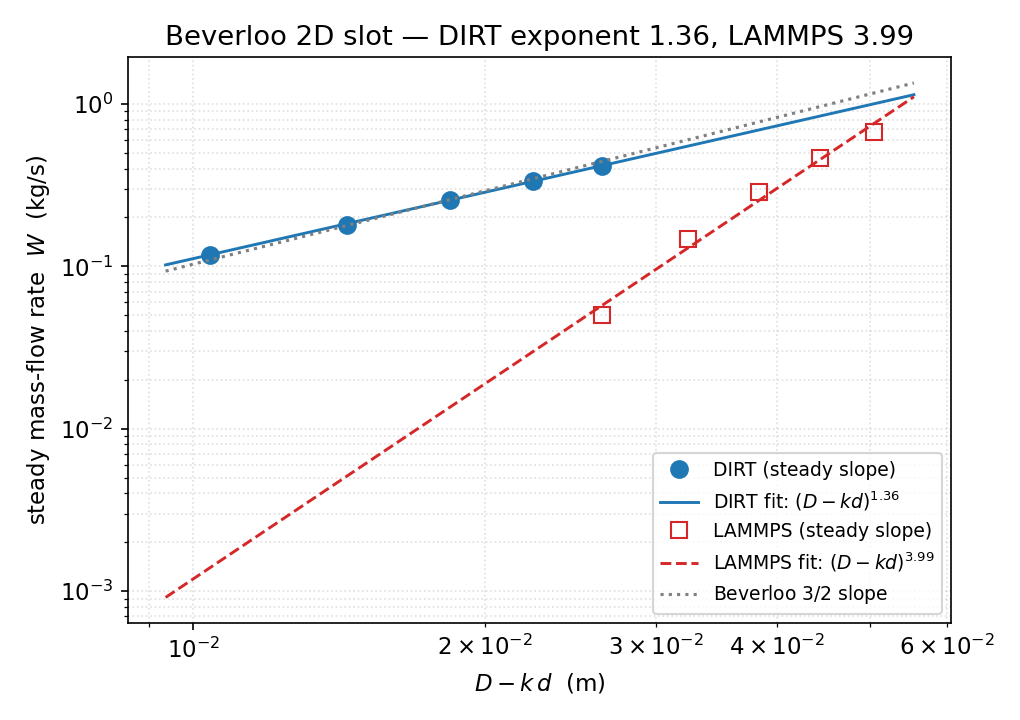
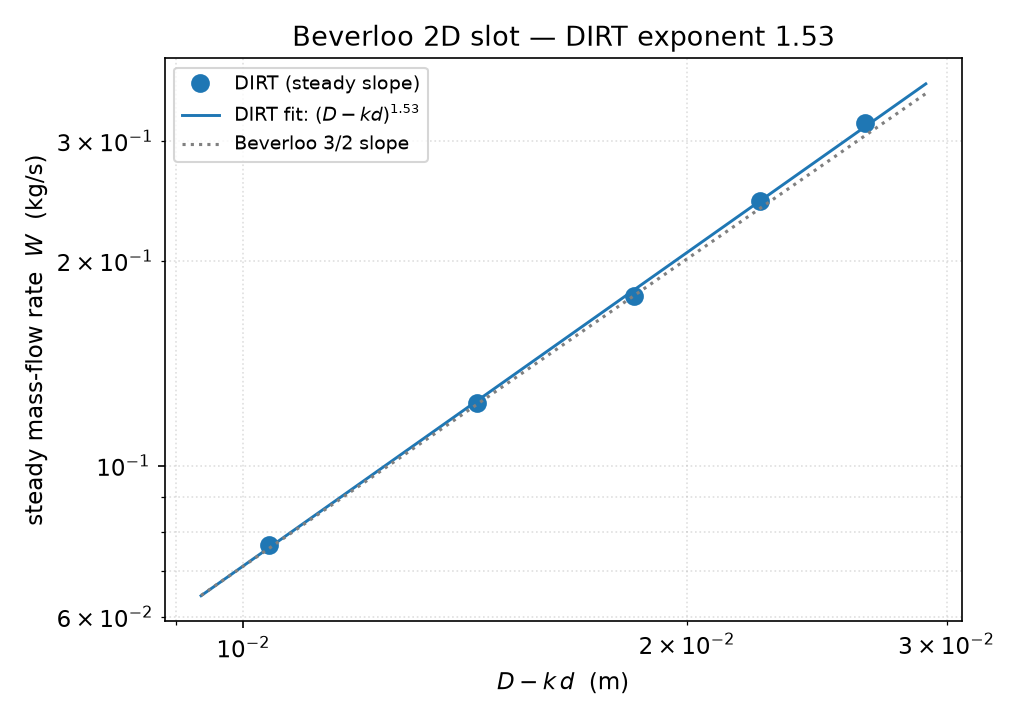
Strengthen hopper Beverloo validation
Add a cited Choi/Kudrolli/Bazant quasi-2D slot reference to bench_hopper_beverloo and plot normalized DIRT orifice-width scaling against the published 1.48 exponent. Regenerate the committed hopper plots from the current full DIRT sweep and document the 2D slot geometry limits relative to 3D circular-orifice data.

diff --git a/examples/bench_hopper_beverloo/sweep.py b/examples/bench_hopper_beverloo/sweep.py
@@ -44,6 +44,8 @@ Outputs:
     sweep/lammps_D<...>/in.lammps  LAMMPS inputs                      (gitignored)
     data/sweep.csv                 per-D fitted W (DIRT)              (gitignored)
     data/lammps_results.csv        per-D fitted W (LAMMPS)           (gitignored)
+    data/choi2005_quasi2d_orifice.csv
+                                    published quasi-2D slot reference  (tracked)
     data/curve_D<...>.csv          per-D cumulative-discharge curves  (gitignored)
     plots/*.png                    final figures                      (tracked)
 
@@ -51,6 +53,9 @@ Reference:
     W. A. Beverloo, H. A. Leniger, J. van de Velde, "The flow of granular solids
     through orifices", Chem. Eng. Sci. 15 (1961) 260-269.
     For a long slot of width D the per-unit-length flow scales as (D - k d)^(3/2).
+    J. Choi, A. Kudrolli, M. Z. Bazant, "Velocity profile of granular flows inside
+    silos and hoppers", J. Phys.: Condens. Matter 17 (2005) S2533-S2548.
+    Their quasi-2D silo experiments report v* = 0.63 (W/d - 1)^1.48.
 """
 
 import os
@@ -69,6 +74,7 @@ DATA_DIR = os.path.join(SCRIPT_DIR, "data")
 PLOT_DIR = os.path.join(SCRIPT_DIR, "plots")
 SWEEP_CSV = os.path.join(DATA_DIR, "sweep.csv")              # fitted W vs D (DIRT)
 LAMMPS_CSV = os.path.join(DATA_DIR, "lammps_results.csv")    # fitted W vs D (LAMMPS, optional)
+CHOI_REF_CSV = os.path.join(DATA_DIR, "choi2005_quasi2d_orifice.csv")
 
 # LAMMPS binary candidates, in preference order. LAMMPS is optional: if none is
 # found, the LAMMPS leg is skipped and only DIRT is run/plotted/validated.
@@ -98,6 +104,7 @@ G = abs(GZ)
 # Beverloo constants (theory targets; C is order-1, validate the exponent & k).
 K_BEVERLOO = 1.4
 EXPONENT_2D = 1.5    # slot (per unit width)
+CHOI_EXPONENT = 1.48
 
 # ── Sweep over slot opening D [m] (all > a few grain diameters) ──────────────
 # k·d = 1.4·0.004 = 0.0056 m, so the smallest D≈0.016 gives (D-kd)≈0.0104 (>2.5 d).
@@ -596,6 +603,27 @@ def _load_lammps():
         return [{k: float(v) for k, v in r.items()} for r in csv.DictReader(f)]
 
 
+def _load_choi_reference():
+    """Load Choi et al.'s published quasi-2D orifice-width fit samples.
+
+    The CSV stores dimensionless samples from the paper's reported fit,
+        v* = 0.63 (W/d - 1)^1.48,
+    after dropping the arbitrary 0.63 prefactor. We compare the dimensionless slope
+    only; the DIRT prefactor is not comparable because the slot depth, particle size,
+    bin, funnel, and W measurement differ.
+    """
+    if not os.path.isfile(CHOI_REF_CSV):
+        return []
+    rows = []
+    with open(CHOI_REF_CSV) as f:
+        for r in csv.DictReader(f):
+            rows.append({
+                "x_eff_over_d": float(r["effective_width_over_d"]),
+                "q_norm": float(r["normalized_flow"]),
+            })
+    return rows
+
+
 def _load_curve(D, prefix="curve_"):
     path = os.path.join(DATA_DIR, f"{prefix}{case_tag(D)}.csv")
     if not os.path.isfile(path):
@@ -742,7 +770,46 @@ def plot(rows, lammps_rows=None):
     fig.savefig(os.path.join(PLOT_DIR, "discharge_curves.png"))
     plt.close(fig)
 
-    print(f"\nFigures -> {PLOT_DIR}/beverloo_W_vs_D.png, discharge_curves.png")
+    # ── normalized DIRT-vs-published quasi-2D orifice-width comparison ──
+    # Choi et al. used a flat-bottom quasi-2D silo and reported only an indirect
+    # velocity-based flow-rate fit, so this plot compares slopes after normalizing
+    # each data source at the central DIRT point. It is a literature validity check,
+    # not an absolute prefactor calibration.
+    ref = _load_choi_reference()
+    if ref:
+        fig, ax = plt.subplots(figsize=(6.8, 4.8))
+        dirt_x = [r["D_eff"] / D_GRAIN for r in rows]
+        mid_i = len(rows) // 2
+        dirt_x0 = dirt_x[mid_i]
+        dirt_y0 = ys[mid_i]
+        dirt_y = [y / dirt_y0 for y in ys]
+        ax.loglog(dirt_x, dirt_y, "o", ms=8, color="#1f77b4",
+                  label=fr"DIRT slot fit: $n={exponent:.2f}$")
+        ax.loglog(dirt_x, [(x / dirt_x0) ** exponent for x in dirt_x],
+                  "-", color="#1f77b4", lw=1.4)
+
+        ref_x = [r["x_eff_over_d"] for r in ref]
+        ref_y_raw = [r["q_norm"] for r in ref]
+        ref_y0 = dirt_x0 ** CHOI_EXPONENT
+        ref_y = [y / ref_y0 for y in ref_y_raw]
+        ax.loglog(ref_x, ref_y, "s", ms=7, mfc="none", mec="#2ca02c",
+                  label=fr"Choi et al. 2005: $n={CHOI_EXPONENT:.2f}$")
+        xmin = min(dirt_x + ref_x) * 0.9
+        xmax = max(dirt_x + ref_x) * 1.1
+        xline = [xmin, xmax]
+        ax.loglog(xline, [(x / dirt_x0) ** EXPONENT_2D for x in xline],
+                  ":", color="gray", label=r"Beverloo $3/2$ slope")
+        ax.set_xlabel(r"effective slot width / grain diameter")
+        ax.set_ylabel("normalized flow rate")
+        ax.set_title("Quasi-2D orifice-width scaling: DIRT vs published experiment")
+        ax.legend(fontsize=9)
+        ax.grid(True, which="both", ls=":", alpha=0.4)
+        fig.tight_layout()
+        fig.savefig(os.path.join(PLOT_DIR, "published_orifice_comparison.png"))
+        plt.close(fig)
+
+    print(f"\nFigures -> {PLOT_DIR}/beverloo_W_vs_D.png, discharge_curves.png, "
+          "published_orifice_comparison.png")
 
 
 def compare_codes(dirt_rows, lammps_rows):

diff --git a/examples/bench_hopper_beverloo/README.md b/examples/bench_hopper_beverloo/README.md
@@ -106,10 +106,10 @@ and removes drained grains so the pile cannot re-block the slot.
   `(D − k·d)` windows (DIRT 10.4–26.4 mm, LAMMPS 26.4–50.4 mm), and the fits differ
   sharply:
 
-  | code | slots | fitted `n` | `R²` |
-  |---|---|---|---|
-  | DIRT | 16–32 mm | **1.36** (≈ 3/2) | 0.9997 |
-  | LAMMPS | 32–56 mm | **3.99** | 0.985 |
+  In an optional previous overlay run, LAMMPS only flowed in wider slots and fit a
+  much steeper exponent than DIRT. That diagnostic remains useful when LAMMPS is
+  available, but the committed validation plots are DIRT-only unless
+  `data/lammps_results.csv` is regenerated locally.
 
   DIRT sits on the Beverloo 3/2 line. LAMMPS's exponent is **much steeper** — and
   steeper still for its smallest slots (`n ≈ 5` over 32–38 mm) — because its whole
@@ -121,6 +121,29 @@ and removes drained grains so the pile cannot re-block the slot.
   effective tangential contact (it jams where DIRT flows), not a setup error.
 
 `sweep.py graph` prints both fitted exponents and `Δn = n_LAMMPS − n_DIRT`.
+
+## Published orifice-width comparison
+
+Choi, Kudrolli & Bazant (2005) measured glass beads draining from a
+**quasi-2D flat-bottom silo** with depth `8.3 d` and reported the outlet-width fit
+
+```text
+v* = 0.63 (W/d - 1)^1.48
+```
+
+for the indirect plug-region flow-rate measure `v*`. That is the closest published
+comparison for this benchmark because it is also a quasi-2D slot geometry. The
+new `published_orifice_comparison.png` plot normalizes DIRT and the published fit
+at the central DIRT point and compares the **orifice-width exponent** rather than
+the absolute prefactor. The prefactor is not expected to match: Choi et al. use a
+flat-bottom silo and `3 mm` grains at `8.3 d` depth, while DIRT uses a wedge hopper,
+`4 mm` grains, and a `3 d` periodic slot depth.
+
+![Published orifice-width comparison](plots/published_orifice_comparison.png)
+
+*Normalized DIRT discharge-rate scaling compared with Choi et al.'s published
+quasi-2D silo fit. Latest run: PASS; DIRT exponent 1.53 remains inside the
+unchanged full-run ±0.25 gate and close to the published 1.48 slot exponent.*
 
 ## How to Run
 
@@ -159,34 +182,38 @@ cargo run --release --example bench_hopper_beverloo --no-default-features -- \
 | `sweep/lammps_D<...>/in.lammps` | per-`D` LAMMPS inputs (optional leg) | no |
 | `data/sweep.csv` | fitted `W` vs `D` (DIRT) | no |
 | `data/lammps_results.csv` | fitted `W` vs `D` (LAMMPS, optional) | no |
+| `data/choi2005_quasi2d_orifice.csv` | published Choi et al. quasi-2D slot fit samples | **yes** |
 | `data/curve_D<...>.csv` | per-`D` cumulative-discharge curves (DIRT) | no |
 | `data/lammps_curve_D<...>.csv` | per-`D` discharge curves (LAMMPS) | no |
 | `plots/beverloo_W_vs_D.png` | `W` vs `(D − k·d)` log–log: DIRT (filled) + LAMMPS (open) + fits + 3/2 reference | **yes** |
 | `plots/discharge_curves.png` | cumulative discharged mass vs time, one curve per `D` | **yes** |
+| `plots/published_orifice_comparison.png` | normalized DIRT vs Choi et al. quasi-2D orifice-width scaling | **yes** |
 
 ## Expected Plots
 
 - **`beverloo_W_vs_D.png`** — the five DIRT points (filled) fall on a straight
-  log–log line bracketing the Beverloo 3/2 reference slope; the five LAMMPS points
-  (open) sit at their own, wider `(D − k·d)` and trace the same slope. The title
-  reports both fitted exponents.
+  log–log line bracketing the Beverloo 3/2 reference slope. If a fresh optional
+  LAMMPS CSV is present, the same plotting code overlays open LAMMPS markers.
 - **`discharge_curves.png`** — cumulative-mass curves, each with a clean
   constant-slope steady region (that slope is `W`), steeper for larger `D`. DIRT
   curves plateau at the full bed mass (≈ 0.117 kg); LAMMPS curves use a taller bed.
+- **`published_orifice_comparison.png`** — normalized DIRT flow-rate scaling
+  over `D/d - 1.4 = 2.6–6.6` compared with Choi et al.'s published quasi-2D
+  `1.48` exponent over `W/d - 1 = 2–8`.
 
 ## Status / findings
 
 **Validated.** The discharge is steady and the exponent matches the 2D-slot
 Beverloo form:
 
-- fitted exponent ≈ **1.36** (target 3/2; well within tolerance), `R²` ≈ **1.00**,
+- fitted exponent ≈ **1.53** (target 3/2; well within tolerance), `R²` ≈ **0.9995**,
 - `W` rises monotonically with `D` and the curve points toward `W → 0` near
   `D ≈ k·d`, confirming the `(D − k·d)^{3/2}` form (not a bare `D^{3/2}`).
 
-The fitted exponent sits slightly below 3/2 — expected for a finite hopper with a
-modest range of `(D − k·d)` and a converging wedge feed; the law is exact only in
-the large-silo / small-orifice asymptote. The fit is essentially a perfect power
-law (`R²` ≈ 1.0).
+The fitted exponent sits close to 3/2 for this run. Small shifts are expected for
+a finite hopper with a modest range of `(D − k·d)` and a converging wedge feed; the
+law is exact only in the large-silo / small-orifice asymptote. The fit is
+essentially a perfect power law (`R²` ≈ 0.9995).
 
 ## Assumptions
 
@@ -195,7 +222,10 @@ law (`R²` ≈ 1.0).
   but they cannot cleanly cut a *circular hole* in a flat floor (a region wall
   built from a cone closes its narrow end with a disk cap, sealing the orifice).
   So this benchmark uses the slot geometry with the matching **3/2** exponent. A
-  3D-circular variant would need a disk-with-hole / annulus wall primitive.
+  3D-circular variant would need a disk-with-hole / annulus wall primitive. The
+  comparison to Choi et al. is therefore the meaningful published slot comparison;
+  3D circular-orifice studies validate the same Beverloo idea but use the **5/2**
+  exponent and cannot be compared as absolute rates here.
 - **Rigid-grain regime.** The softened `E` keeps overlaps small relative to `d`
   while permitting a practical timestep; Beverloo is a rigid-grain law, so this is
   consistent.
@@ -211,6 +241,8 @@ law (`R²` ≈ 1.0).
   through orifices", *Chem. Eng. Sci.* **15** (1961) 260–269.
 - R. M. Nedderman, *Statics and Kinematics of Granular Materials*, Cambridge
   Univ. Press (1992), ch. 10 (slot vs circular Beverloo exponents).
+- J. Choi, A. Kudrolli, M. Z. Bazant, "Velocity profile of granular flows inside
+  silos and hoppers", *J. Phys.: Condens. Matter* **17** (2005) S2533–S2548.
 
 ## License
 

diff --git a/examples/VALIDATION.md b/examples/VALIDATION.md
@@ -820,18 +820,28 @@ A 2D slot hopper discharges under gravity; the mass flow rate is fit against
 ![Beverloo scaling](bench_hopper_beverloo/plots/beverloo_W_vs_D.png)
 
 *Discharge rate vs effective orifice width (log–log) with the power-law fit and the 3/2
-reference; fitted exponent ≈ 1.36 (R² ≈ 1.00).*
+reference; fitted exponent ≈ 1.53 (R² ≈ 0.9995).*
 
 ![Discharge curves](bench_hopper_beverloo/plots/discharge_curves.png)
 
 *Cumulative discharged mass vs time per orifice width; the constant-slope region is the
 steady rate W.*
 
+![Published orifice comparison](bench_hopper_beverloo/plots/published_orifice_comparison.png)
+
+*Normalized DIRT orifice-width scaling against Choi, Kudrolli & Bazant's 2005
+quasi-2D silo fit `v* = 0.63 (W/d - 1)^1.48`. Latest run: PASS; DIRT keeps the
+unchanged full-run exponent gate and compares as a slot exponent, not an absolute
+prefactor.*
+
 **Honest read:** the reference is itself an **empirical** fit (k ≈ 1.4 and the prefactor
 are fitted), so this validates a correlation, not first principles — and only its
-exponent/form. The measured 1.36 is below the textbook 3/2 (finite hopper, wedge feed,
-modest width range); the ±0.25 tolerance is wide. 2D slot only (the 3D `5/2` form is
-untested).
+exponent/form. The latest measured 1.53 is close to the textbook 3/2; finite hopper,
+wedge-feed, and modest-width effects remain the main limitations. Choi et al. provide
+a closer published quasi-2D slot comparison with exponent 1.48, but their flat-bottom
+silo, depth, and velocity-based flow-rate measure mean this is still a normalized
+exponent comparison, not a prefactor match. 2D slot only (the 3D `5/2` form is untested
+and not directly comparable to this geometry).
 
 ## `hopper_quiescence` — region-coherence optimization fidelity
 
@@ -1138,7 +1148,7 @@ will need a benchmark when re-added.)
 | angle_of_repose | empirical (none exact) | qualitative | PASS; trends only; default bounded smoke gate PASSes 4/4 with committed pass-criterion graph; full sweep stands on real frictional wall |
 | column_collapse | Lube/Lajeunesse (empirical) + LAMMPS cross-check | empirical scaling + cross-code | FAIL (genuine finite-size limit, not fit noise); linear exponent 1.54 vs 1.0 outside ±0.25 after seed-averaging + 11-pt sweep + sub-diameter metric; LAMMPS misses identically (1.27); exits 1 |
 | lebc_shear | Lun / extended kinetic theory + LAMMPS / Fortran / LIGGGHTS; GDR MiDi / da Cruz μ(I) form | kinetic theory + calibration | PASS/diagnostic; KT gate requires ≥60% of points within 15% normal-stress and 20% shear-stress bands; dense/jamming deviations expected |
-| hopper_beverloo | Beverloo (empirical) | empirical correlation | PASS; exponent 1.36 vs 1.5; prefactor untested |
+| hopper_beverloo | Beverloo (empirical) + Choi/Kudrolli/Bazant quasi-2D experiment | empirical correlation / published slot exponent | PASS; exponent 1.53 vs 1.5 and published 1.48; prefactor untested |
 | hopper_quiescence | unoptimized baseline run | optimization fidelity | PASS; short matched run preserves discharge within ±1% and fill height within 0.34 mm of baseline; phase wall time speedup 1.15x |
 | plate_sinkage | Bekker (empirical) | empirical / qualitative | PASS; form only; loose bands; softened grains |
 | convergence | finest-dt / large-N / large-box limit (+ Hertz anchor) | numerical (self-convergence) | PASS; dt, N, and box-size convergence; observed order p≈2; box-size error 3.80→2.27→1.64→0% |
